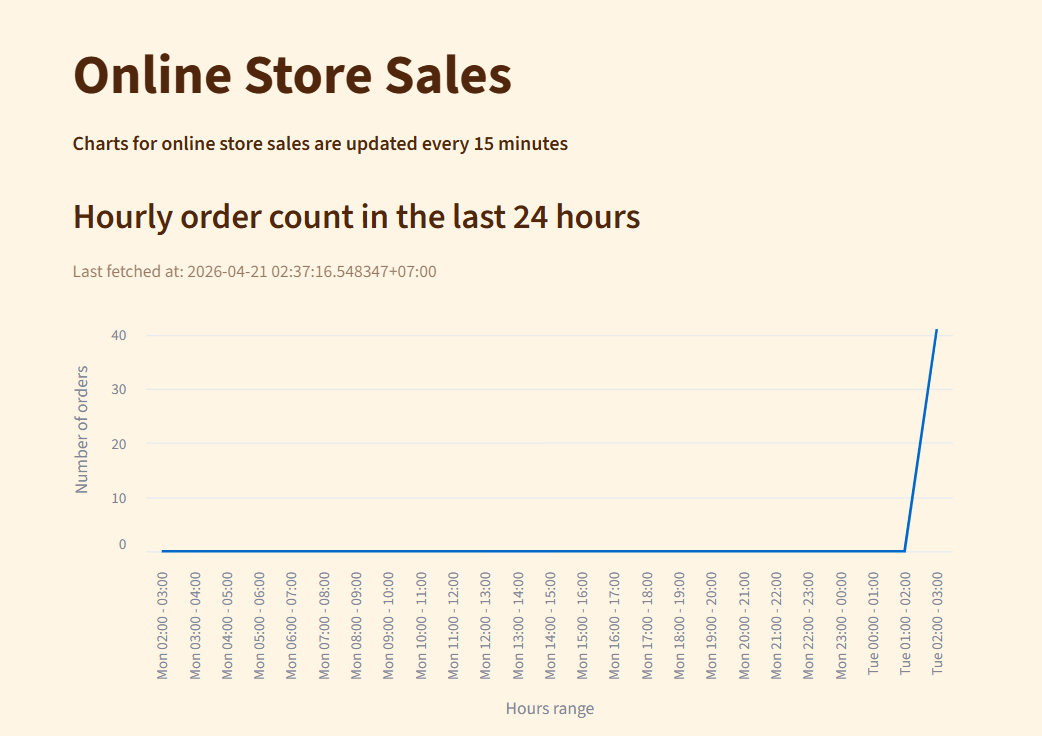
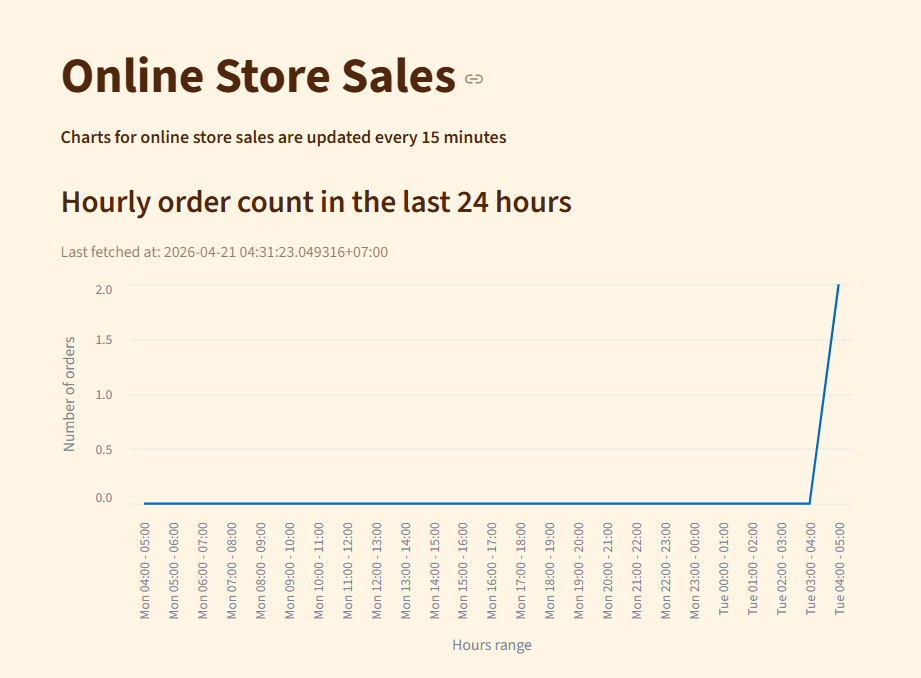
progress with readme

diff --git a/README.md b/README.md
@@ -45,21 +45,27 @@ On Windows or Mac, create a .env file at the root of this project and add:
 ```
 AIRFLOW_UID=50000
 ```
-3. Run ```docker compose up``` to run without starting the online store data generator or run ```docker compose --profile with_online_store_sim up``` to run with the generator (make sure port 5433 is free on the host)
-4. Wait until Airflow finished starting up and view the web UI at http://127.0.0.1:8081/. Login using the following credentials:
+3. Run ```docker compose up``` to run without starting the online store data generator or run ```docker compose --profile with_online_store_sim up``` to run with the generator (make sure port 5433 is free on the host). Note that if you run without the online store data generator and don't add the data manually the charts for online store data will be empty
+4. Once the db_setup and dummy_api services are up, you can add data for the online store manually by running SQL queries or by using the API endpoints at http://127.0.0.1:8000/docs by using the 'Try it out' button under the following endpoints:
+![screenshot of relevant endpoints on Swagger docs](https://github.com/cali221/Chocolate-Sales-ETL/blob/main/readme-images/relevant-api-endpoints.png?raw=true) 
+5. Wait until Airflow finished starting up (it might take a while) and view the web UI at http://127.0.0.1:8081/. Login using the following credentials:
 ```
 Username: airflow
 Password: airflow
 ```
-5. Once Airflow has finished its first DAG run, the data marts are now available to use for data visualization. Open the dashboard at http://localhost:8501/ to view the charts
+You can view the DAG by going to the Dags tab as shown below:
+![screenshot of the Dags tab on Airflow's web UI showing the dag in completed state](https://github.com/cali221/Chocolate-Sales-ETL/blob/main/readme-images/airflow-dags.png?raw=true) 
+6. Once Airflow has finished its first DAG run, the data marts are now available to use for data visualization. Open the dashboard at http://localhost:8501/ to view the charts
 
 # Results
 (Section to be written later)
 
 ## Dashboard screenshots
 (Section to be updated later)<br>
-The dashboard consists of 10 charts in total with 5 automatially refreshing charts for the onliene store data and 5 interactive charts for the sales people's sales data as shown below
+The dashboard consists of 10 charts in total with 5 automatially refreshing charts for the online store data and 5 interactive charts for the sales people's sales data as shown below
 ### Charts for Online Store Data
+Please note that not all since the online store data generator generates random data including status updates with short intervals in-between, the data shown might seem unrealistic.
+
 ![screenshot of a line chart showing hourly order count in the last 24 hours](https://github.com/cali221/Chocolate-Sales-ETL/blob/main/readme-images/dashboard-6.png?raw=true) 
 
 ![screenshot of a line chart showing hourly revenue in the last 24 hours](https://github.com/cali221/Chocolate-Sales-ETL/blob/main/readme-images/dashboard-7.png?raw=true) 
